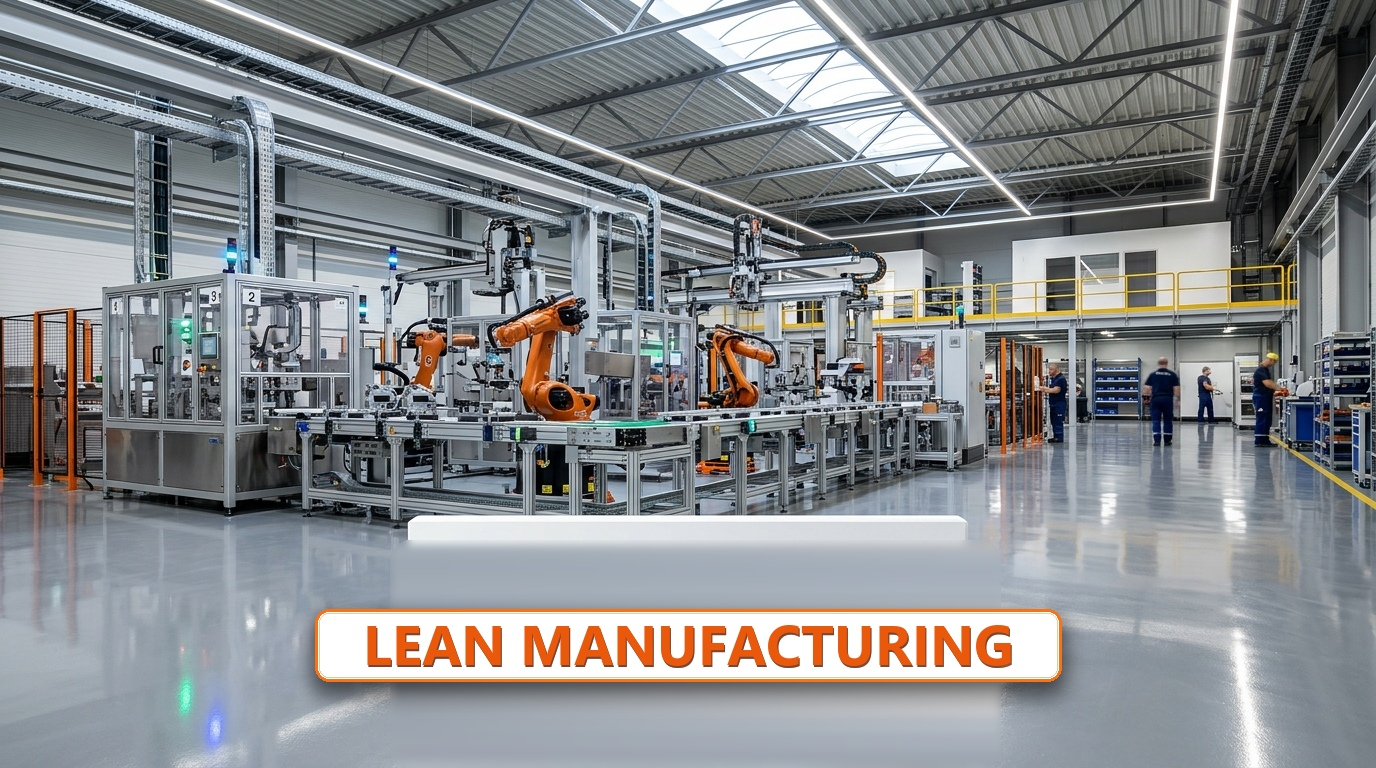
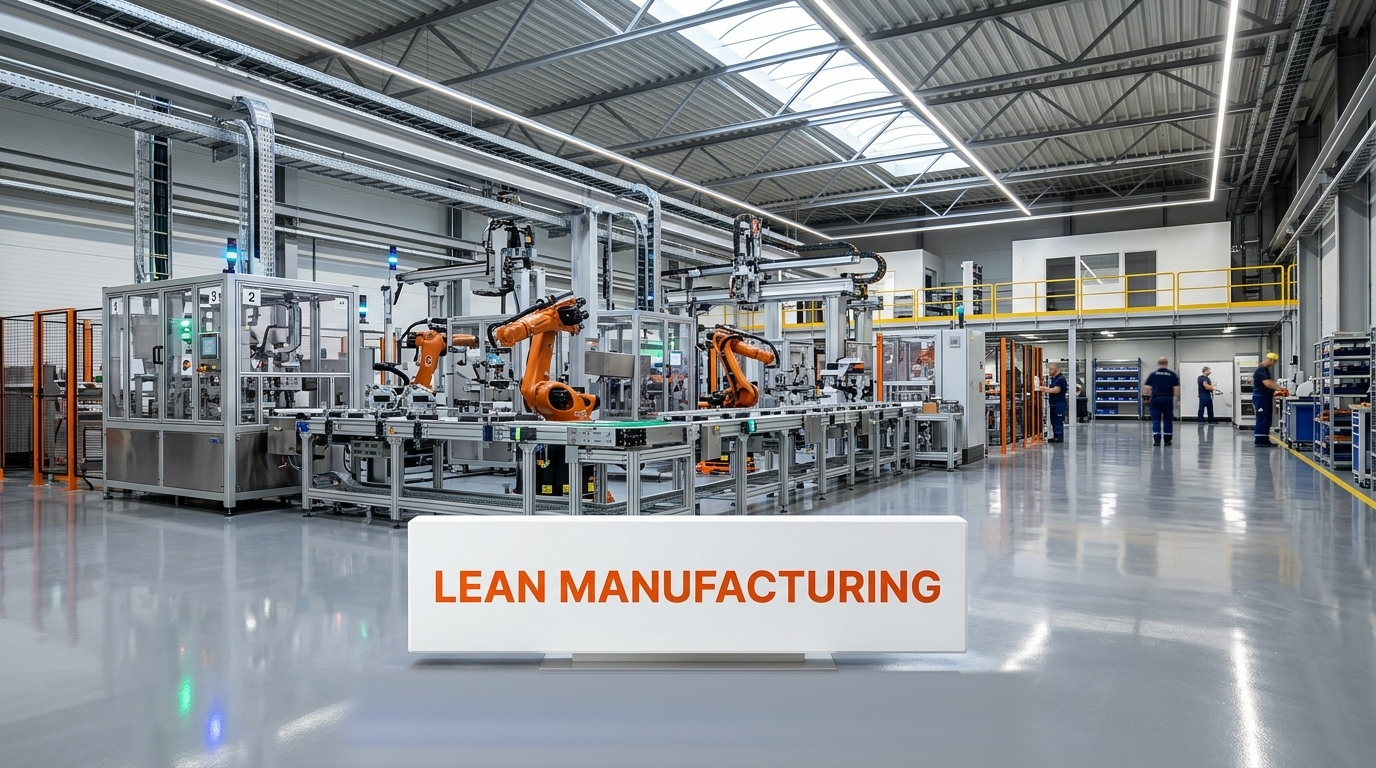
fix(hero): completely remove floor reflection and white bar artifact, clean epoxy floor

Changed region(s): [[0.2188, 0.6875, 0.7812, 1.0]]

diff --git a/assets/js/toolkit-store.js b/assets/js/toolkit-store.js
@@ -8,7 +8,7 @@ var INVAMAX_TOOLKIT_STORE = (function () {
                  (typeof window !== 'undefined' && window.location && window.location.pathname.includes('/en/'));
 
     const STORAGE_KEY = isEN ? 'invamax_toolkits_en_v2' : 'invamax_toolkits_v2';
-    const ARTICLES_STORAGE_KEY = isEN ? 'invamax_resources_articles_en_v4' : 'invamax_resources_articles_v4';
+    const ARTICLES_STORAGE_KEY = isEN ? 'invamax_resources_articles_en_v12' : 'invamax_resources_articles_v12';
     const VIDEOS_STORAGE_KEY = isEN ? 'invamax_resources_videos_en_v1' : 'invamax_resources_videos_v1';
     const SETTINGS_KEY = 'invamax_admin_settings_v1';
 
@@ -76,7 +76,7 @@ var INVAMAX_TOOLKIT_STORE = (function () {
                 "title": "Understanding Lean Manufacturing in 10 Minutes",
                 "category": "Lean & Improvement",
                 "excerpt": "Lean is not just about waste elimination. It is an operational mindset and system design philosophy enabling factories to generate greater customer value with fewer resources.",
-                "thumbnail": "assets/images/resources/lean-10-min-v3.jpg?v=20261024_1535",
+                "thumbnail": "assets/images/resources/lean-10-min-clean.jpg?v=20261024_1600",
                 "dateDisplay": "Oct 23, 2026",
                 "views": "1.8K views",
                 "link": "en/article-hieu-ve-lean-manufacturing.html",
@@ -240,7 +240,7 @@ var INVAMAX_TOOLKIT_STORE = (function () {
             title: 'Hiểu về Lean Manufacturing trong 10 phút',
             category: 'Lean & Cải tiến',
             excerpt: 'Lean không chỉ là loại bỏ lãng phí. Đó là phương pháp tư duy và tổ chức vận hành giúp nhà máy tạo ra nhiều giá trị hơn với ít nguồn lực hơn.',
-            thumbnail: 'assets/images/resources/lean-10-min-v3.jpg?v=20261024_1535',
+            thumbnail: 'assets/images/resources/lean-10-min-clean.jpg?v=20261024_1600',
             dateDisplay: '23 thg 10, 2026',
             views: '1.8K lượt xem',
             link: 'vi/article-hieu-ve-lean-manufacturing.html',

diff --git a/vi/article-hieu-ve-lean-manufacturing.html b/vi/article-hieu-ve-lean-manufacturing.html
@@ -13,13 +13,13 @@
     <meta property="og:title" content="Hiểu về Lean Manufacturing trong 10 phút | INVAMAX">
     <meta property="og:description" content="Lean không chỉ là loại bỏ lãng phí. Khám phá 5 nguyên lý cốt lõi, 8 loại lãng phí và mô hình triển khai thực chiến cho nhà máy sản xuất.">
     <meta property="og:url" content="https://invamax.vn/vi/article-hieu-ve-lean-manufacturing.html">
-    <meta property="og:image" content="https://invamax.vn/assets/images/resources/lean-10-min-v3.jpg?v=20261024_1535">
+    <meta property="og:image" content="https://invamax.vn/assets/images/resources/lean-10-min-clean.jpg?v=20261024_1600">
 
     <!-- Twitter Card -->
     <meta name="twitter:card" content="summary_large_image">
     <meta name="twitter:title" content="Hiểu về Lean Manufacturing trong 10 phút | INVAMAX">
     <meta name="twitter:description" content="Hướng dẫn toàn diện về Lean Manufacturing: nguyên lý, lãng phí và tư duy cải tiến dòng chảy cho nhà máy.">
-    <meta name="twitter:image" content="https://invamax.vn/assets/images/resources/lean-10-min-v3.jpg?v=20261024_1535">
+    <meta name="twitter:image" content="https://invamax.vn/assets/images/resources/lean-10-min-clean.jpg?v=20261024_1600">
 
     <!-- Favicon -->
     <link rel="icon" href="../assets/images/home/logo-invamax-favico.png" type="image/png">
@@ -1058,7 +1058,7 @@
             </div>
             <div class="article-header-right">
                 <div class="article-hero-img-wrap">
-                    <img src="../assets/images/resources/lean-10-min-v3.jpg?v=20261024_1535" alt="Hiểu về Lean Manufacturing trong 10 phút" class="article-hero-img">
+                    <img src="../assets/images/resources/lean-10-min-clean.jpg?v=20261024_1600" alt="Hiểu về Lean Manufacturing trong 10 phút" class="article-hero-img">
                 </div>
             </div>
         </header>

diff --git a/en/article-hieu-ve-lean-manufacturing.html b/en/article-hieu-ve-lean-manufacturing.html
@@ -13,13 +13,13 @@
     <meta property="og:title" content="Understanding Lean Manufacturing in 10 Minutes | INVAMAX">
     <meta property="og:description" content="Lean is more than eliminating waste. Discover 5 core principles, 8 wastes, and a battle-tested roadmap for manufacturing plants.">
     <meta property="og:url" content="https://invamax.vn/en/article-hieu-ve-lean-manufacturing.html">
-    <meta property="og:image" content="https://invamax.vn/assets/images/resources/lean-10-min-v3.jpg?v=20261024_1535">
+    <meta property="og:image" content="https://invamax.vn/assets/images/resources/lean-10-min-clean.jpg?v=20261024_1600">
 
     <!-- Twitter Card -->
     <meta name="twitter:card" content="summary_large_image">
     <meta name="twitter:title" content="Understanding Lean Manufacturing in 10 Minutes | INVAMAX">
     <meta name="twitter:description" content="A comprehensive practical guide to Lean Manufacturing: principles, wastes, and continuous flow for modern factories.">
-    <meta name="twitter:image" content="https://invamax.vn/assets/images/resources/lean-10-min-v3.jpg?v=20261024_1535">
+    <meta name="twitter:image" content="https://invamax.vn/assets/images/resources/lean-10-min-clean.jpg?v=20261024_1600">
 
     <!-- Favicon -->
     <link rel="icon" href="../assets/images/home/logo-invamax-favico.png" type="image/png">
@@ -1058,7 +1058,7 @@
             </div>
             <div class="article-header-right">
                 <div class="article-hero-img-wrap">
-                    <img src="../assets/images/resources/lean-10-min-v3.jpg?v=20261024_1535" alt="Understanding Lean Manufacturing in 10 Minutes" class="article-hero-img">
+                    <img src="../assets/images/resources/lean-10-min-clean.jpg?v=20261024_1600" alt="Understanding Lean Manufacturing in 10 Minutes" class="article-hero-img">
                 </div>
             </div>
         </header>

diff --git a/vi/insights.html b/vi/insights.html
@@ -196,7 +196,7 @@
                     <!-- Article: Hiểu về Lean Manufacturing trong 10 phút -->
                     <a href="article-hieu-ve-lean-manufacturing.html" class="art-card-light">
                         <div class="art-thumb-wrap">
-                            <img src="../assets/images/resources/lean-10-min-v3.jpg?v=20261024_1535" alt="Hiểu về Lean Manufacturing trong 10 phút" loading="lazy">
+                            <img src="../assets/images/resources/lean-10-min-clean.jpg?v=20261024_1600" alt="Hiểu về Lean Manufacturing trong 10 phút" loading="lazy">
                             <span class="art-tag-badge-solid">Lean &amp; Cải tiến</span>
                         </div>
                         <div class="art-body-light">
@@ -619,7 +619,7 @@
             pdfjsLib.GlobalWorkerOptions.workerSrc = '../assets/js/vendor/pdf.worker.min.js';
         }
     </script>
-        <script src="../assets/js/toolkit-store.js?v=20261024_1535"></script>
+        <script src="../assets/js/toolkit-store.js?v=20261024_1600"></script>
         <!-- Contact Modal -->
     <div id="contactModal" class="modal-overlay">
         <div class="modal-content">

diff --git a/en/insights.html b/en/insights.html
@@ -196,7 +196,7 @@
                     <!-- Article: Understanding Lean Manufacturing in 10 Minutes -->
                     <a href="article-hieu-ve-lean-manufacturing.html" class="art-card-light">
                         <div class="art-thumb-wrap">
-                            <img src="../assets/images/resources/lean-10-min-v3.jpg?v=20261024_1535" alt="Understanding Lean Manufacturing in 10 Minutes" loading="lazy">
+                            <img src="../assets/images/resources/lean-10-min-clean.jpg?v=20261024_1600" alt="Understanding Lean Manufacturing in 10 Minutes" loading="lazy">
                             <span class="art-tag-badge-solid">Lean &amp; Kaizen</span>
                         </div>
                         <div class="art-body-light">
@@ -850,7 +850,7 @@
             pdfjsLib.GlobalWorkerOptions.workerSrc = '../assets/js/vendor/pdf.worker.min.js';
         }
     </script>
-        <script src="../assets/js/toolkit-store.js?v=20261024_1535"></script>
+        <script src="../assets/js/toolkit-store.js?v=20261024_1600"></script>
         <!-- Contact Modal -->
     <div id="contactModal" class="modal-overlay">
         <div class="modal-content">

diff --git a/admin-resources.html b/admin-resources.html
@@ -2786,7 +2786,7 @@
             pdfjsLib.GlobalWorkerOptions.workerSrc = 'assets/js/vendor/pdf.worker.min.js';
         }
     </script>
-    <script src="assets/js/toolkit-store.js?v=20261024_1410"></script>
+    <script src="assets/js/toolkit-store.js?v=20261024_1600"></script>
     <script src="assets/js/github-sync.js?v=20261019_1330"></script>
     <script src="assets/js/case-study-store.js?v=20261019_1415"></script>
     <script>
@@ -2828,7 +2828,7 @@
                 title: 'Hiểu về Lean Manufacturing trong 10 phút',
                 category: 'Lean & Cải tiến',
                 excerpt: 'Lean không chỉ là loại bỏ lãng phí. Đó là phương pháp tư duy và tổ chức vận hành giúp nhà máy tạo ra nhiều giá trị hơn với ít nguồn lực hơn.',
-                thumbnail: 'assets/images/resources/lean-10-min-v3.jpg?v=20261024_1535',
+                thumbnail: 'assets/images/resources/lean-10-min-clean.jpg?v=20261024_1600',
                 dateDisplay: '23 thg 10, 2026',
                 views: '1.8K lượt xem',
                 link: 'vi/article-hieu-ve-lean-manufacturing.html',

diff --git a/en/articles.html b/en/articles.html
@@ -204,7 +204,7 @@
                     <!-- Article: Understanding Lean Manufacturing in 10 Minutes -->
                     <a href="article-hieu-ve-lean-manufacturing.html" class="article-card">
                         <div class="article-img-wrapper">
-                            <img src="../assets/images/resources/lean-10-min-v3.jpg?v=20261024_1535" alt="Understanding Lean Manufacturing in 10 Minutes" loading="lazy">
+                            <img src="../assets/images/resources/lean-10-min-clean.jpg?v=20261024_1600" alt="Understanding Lean Manufacturing in 10 Minutes" loading="lazy">
                         </div>
                         <div class="article-content">
                             <span class="article-category">Lean &amp; Continuous Improvement</span>

diff --git a/vi/articles.html b/vi/articles.html
@@ -204,7 +204,7 @@
                     <!-- Article: Hiểu về Lean Manufacturing trong 10 phút -->
                     <a href="article-hieu-ve-lean-manufacturing.html" class="article-card">
                         <div class="article-img-wrapper">
-                            <img src="../assets/images/resources/lean-10-min-v3.jpg?v=20261024_1535" alt="Hiểu về Lean Manufacturing trong 10 phút" loading="lazy">
+                            <img src="../assets/images/resources/lean-10-min-clean.jpg?v=20261024_1600" alt="Hiểu về Lean Manufacturing trong 10 phút" loading="lazy">
                         </div>
                         <div class="article-content">
                             <span class="article-category">Lean &amp; Cải tiến</span>
